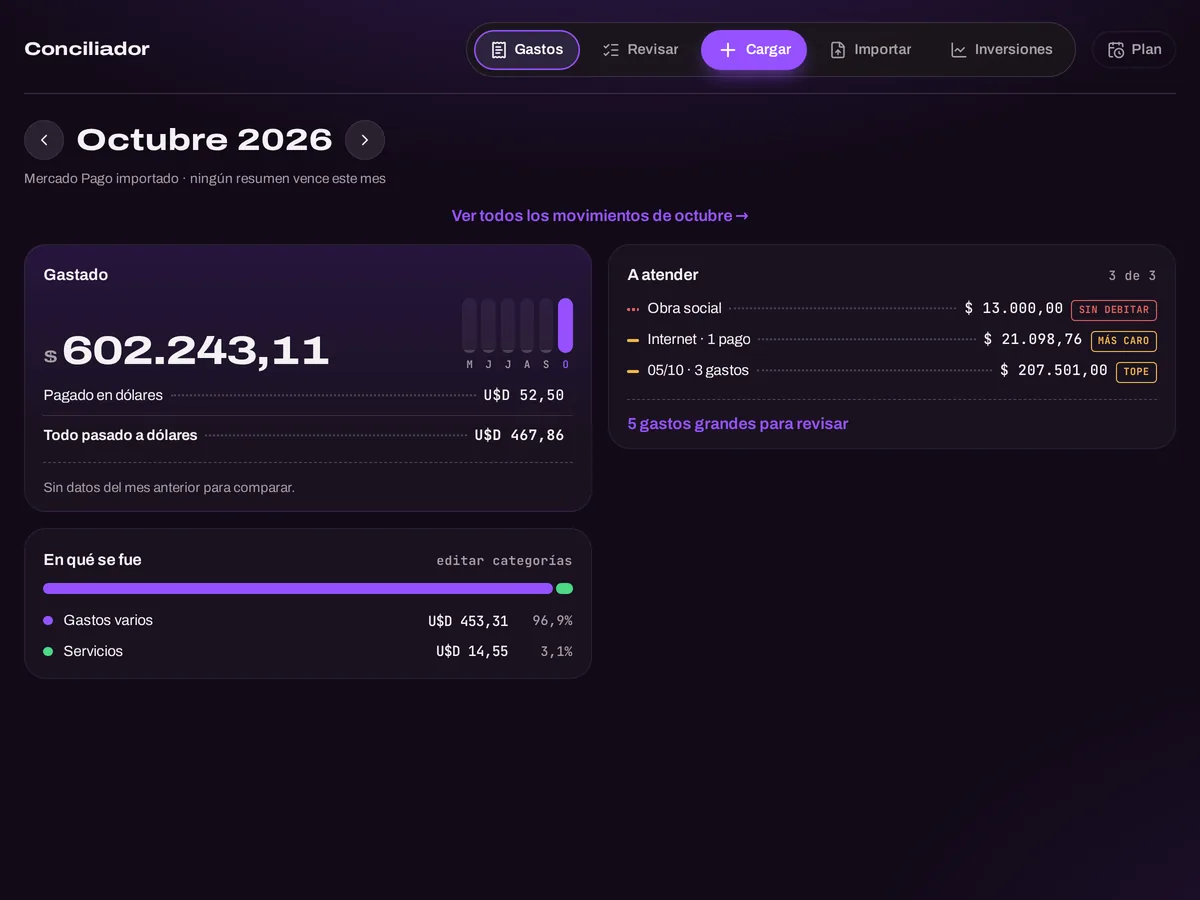
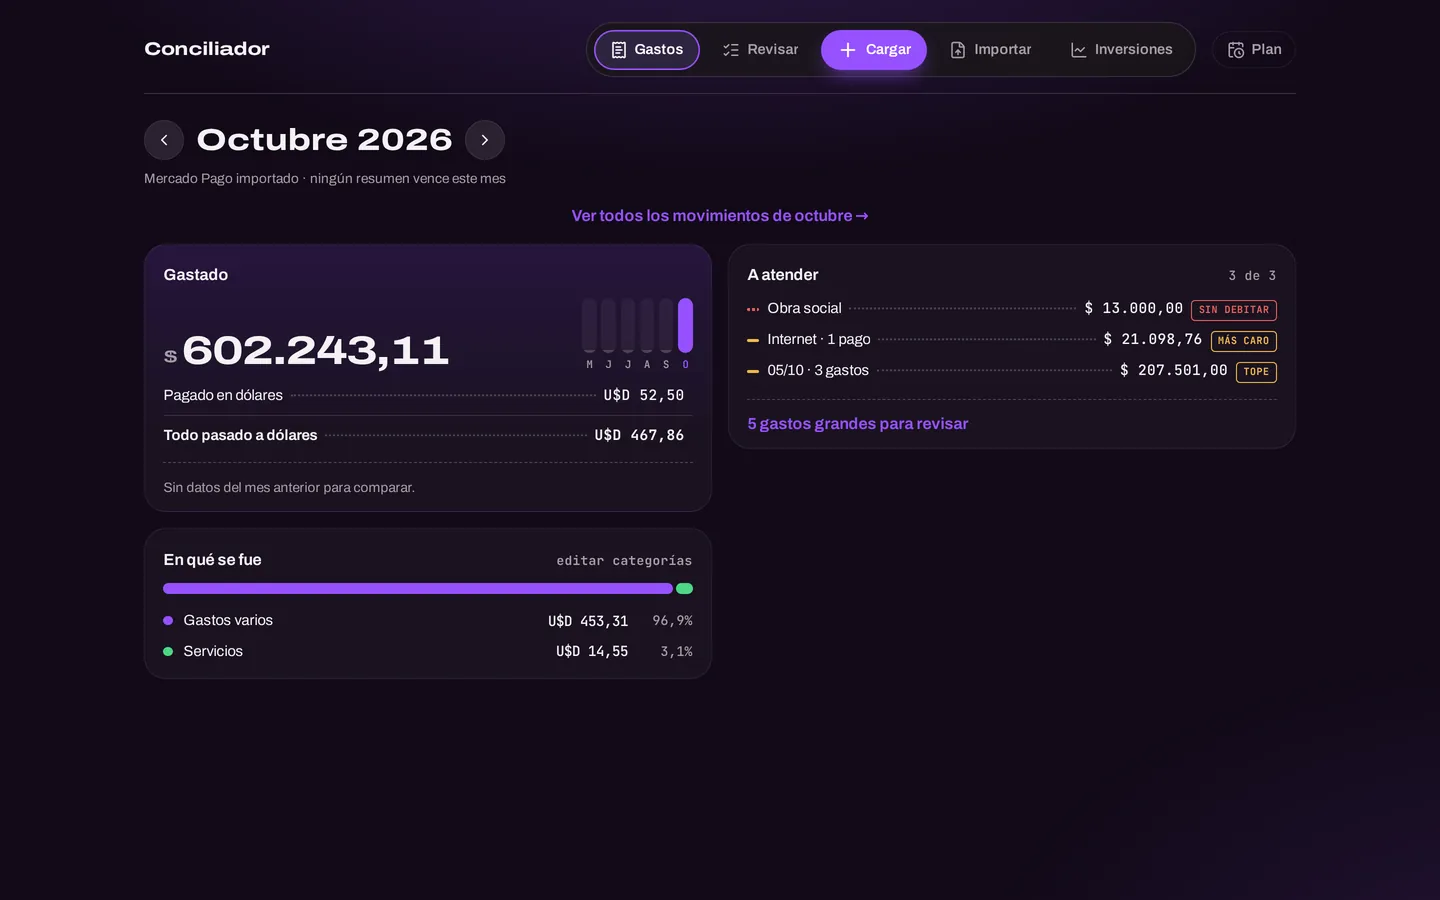
Capturas reales de Salón Ivana (8 pantallas) y Ubuntu Estudio (5) en Trabajos
El catálogo de velas pasa a llamarse Ubuntu Estudio. Cada proyecto toma el color de su propia marca:
dorado para Ivana y naranja para Ubuntu, sacados de sus capturas; Kioskardo pasa de ámbar a lavanda para
no quedar con tres colores cálidos seguidos. Las diapositivas pasan de 4:3 a 16:10, la proporción de las
capturas de compu, y la de Facturar (más alta) se corta bajo el botón de cobrar y se completa a los
costados con el fondo de la app. Se borran las pantallas ilustrativas que ya no usa nadie.

Claude-Session: https://claude.ai/code/session_017WqKTYk3RLyTthn5xwMGce

diff --git a/bocetos/boceto-v2.html b/bocetos/boceto-v2.html
@@ -23,9 +23,9 @@
   --lima:#D4EE5E;
   --crema:#E4DDCB;
   --verde:#4ADE80;
-  --rosa:#F472B6;
-  --kiosco:#FBBF24;
+  --dorado:#C9A84C;
   --lavanda:#A78BFA;
+  --naranja:#E8833A;
   --menta:#4CD886;
   --nota:#FFC857;
 
@@ -60,8 +60,8 @@ main{overflow-x:clip}
   transition:--amb-fondo 1.2s ease, --amb-brillo 1.2s ease}
 .ambiente[data-tono="negro"]  {--amb-fondo:#030405;--amb-brillo:rgba(212,238,94,.05)}
 .ambiente[data-tono="navy"]   {--amb-fondo:#060E1E;--amb-brillo:rgba(60,110,230,.16)}
-.ambiente[data-tono="rosa"]   {--amb-fondo:#0D0A1F;--amb-brillo:rgba(244,114,182,.17)}
-.ambiente[data-tono="ambar"]  {--amb-fondo:#0B0F1E;--amb-brillo:rgba(251,191,36,.13)}
+.ambiente[data-tono="dorado"] {--amb-fondo:#0D0D16;--amb-brillo:rgba(201,168,76,.15)}
+.ambiente[data-tono="naranja"]{--amb-fondo:#0E0B16;--amb-brillo:rgba(232,131,58,.15)}
 .ambiente[data-tono="lavanda"]{--amb-fondo:#090B24;--amb-brillo:rgba(167,139,250,.19)}
 .ambiente[data-tono="menta"]  {--amb-fondo:#05131A;--amb-brillo:rgba(76,216,134,.14)}
 .ambiente[data-tono="turquesa"]{--amb-fondo:#04111A;--amb-brillo:rgba(94,234,212,.15)}
@@ -164,7 +164,7 @@ main{overflow-x:clip}
 .galeria{display:grid;gap:14px;min-width:0}
 .carril{display:flex;gap:12px;overflow-x:auto;scroll-snap-type:x mandatory;scrollbar-width:none;border-radius:22px;overscroll-behavior-x:contain}
 .carril::-webkit-scrollbar{display:none}
-.slide{flex:0 0 86%;scroll-snap-align:start;margin:0;position:relative;border-radius:22px;overflow:hidden;aspect-ratio:4/3;max-width:100%;
+.slide{flex:0 0 86%;scroll-snap-align:start;margin:0;position:relative;border-radius:22px;overflow:hidden;aspect-ratio:16/10;max-width:100%;
   background:
     radial-gradient(80% 70% at 70% 20%, color-mix(in srgb, var(--tinte) 30%, transparent), transparent 70%),
     linear-gradient(160deg,#0D1628,#070C18)}
@@ -363,24 +363,6 @@ main{overflow-x:clip}
       <rect x="314" y="152" width="16" height="74" rx="3" opacity=".7"/>
     </g>
   </symbol>
-  <symbol id="mock-agenda" viewBox="0 0 400 300">
-    <rect x="34" y="34" width="332" height="222" rx="16" style="fill:#0B1322;stroke:rgba(255,255,255,.1)"/>
-    <rect x="52" y="52" width="90" height="10" rx="5" style="fill:#DDE6F2"/>
-    <rect x="290" y="48" width="58" height="20" rx="10" style="fill:var(--tinte)"/>
-    <g style="fill:#121F37">
-      <rect x="52" y="82" width="56" height="158" rx="8"/><rect x="112" y="82" width="56" height="158" rx="8"/><rect x="172" y="82" width="56" height="158" rx="8"/><rect x="232" y="82" width="56" height="158" rx="8"/><rect x="292" y="82" width="56" height="158" rx="8"/>
-    </g>
-    <g style="fill:var(--tinte)">
-      <rect x="56" y="92" width="48" height="34" rx="6" opacity=".85"/>
-      <rect x="56" y="150" width="48" height="24" rx="6" opacity=".45"/>
-      <rect x="116" y="112" width="48" height="44" rx="6" opacity=".6"/>
-      <rect x="176" y="92" width="48" height="22" rx="6" opacity=".45"/>
-      <rect x="176" y="130" width="48" height="50" rx="6"/>
-      <rect x="236" y="160" width="48" height="30" rx="6" opacity=".6"/>
-      <rect x="296" y="96" width="48" height="30" rx="6" opacity=".7"/>
-      <rect x="296" y="196" width="48" height="30" rx="6" opacity=".45"/>
-    </g>
-  </symbol>
   <symbol id="mock-celu" viewBox="0 0 400 300">
     <rect x="140" y="22" width="120" height="256" rx="24" style="fill:#0B1322;stroke:rgba(255,255,255,.16);stroke-width:2"/>
     <rect x="182" y="32" width="36" height="8" rx="4" style="fill:#1B2840"/>
@@ -398,15 +380,6 @@ main{overflow-x:clip}
     <g style="fill:#121F37"><rect x="52" y="94" width="296" height="28" rx="7"/><rect x="52" y="128" width="296" height="28" rx="7"/><rect x="52" y="162" width="296" height="28" rx="7"/><rect x="52" y="196" width="296" height="28" rx="7"/></g>
     <g style="fill:#3A4A68"><rect x="64" y="105" width="110" height="6" rx="3"/><rect x="64" y="139" width="90" height="6" rx="3"/><rect x="64" y="173" width="124" height="6" rx="3"/><rect x="64" y="207" width="100" height="6" rx="3"/></g>
     <g style="fill:var(--tinte)"><rect x="300" y="102" width="36" height="12" rx="6" opacity=".8"/><rect x="300" y="136" width="36" height="12" rx="6" opacity=".5"/><rect x="300" y="170" width="36" height="12" rx="6"/><rect x="300" y="204" width="36" height="12" rx="6" opacity=".35"/></g>
-  </symbol>
-  <symbol id="mock-catalogo" viewBox="0 0 400 300">
-    <rect x="34" y="34" width="332" height="222" rx="16" style="fill:#0B1322;stroke:rgba(255,255,255,.1)"/>
-    <rect x="52" y="52" width="110" height="10" rx="5" style="fill:#DDE6F2"/>
-    <g style="fill:#121F37"><rect x="52" y="76" width="56" height="18" rx="9"/><rect x="114" y="76" width="56" height="18" rx="9"/><rect x="176" y="76" width="56" height="18" rx="9"/></g>
-    <rect x="52" y="76" width="56" height="18" rx="9" style="fill:var(--tinte)"/>
-    <g style="fill:var(--tinte)"><rect x="52" y="108" width="92" height="74" rx="10" opacity=".7"/><rect x="154" y="108" width="92" height="74" rx="10" opacity=".45"/><rect x="256" y="108" width="92" height="74" rx="10" opacity=".85"/></g>
-    <g style="fill:#3A4A68"><rect x="52" y="192" width="70" height="7" rx="3.5"/><rect x="154" y="192" width="60" height="7" rx="3.5"/><rect x="256" y="192" width="74" height="7" rx="3.5"/></g>
-    <g style="fill:#121F37"><rect x="52" y="210" width="92" height="26" rx="13"/><rect x="154" y="210" width="92" height="26" rx="13"/><rect x="256" y="210" width="92" height="26" rx="13"/></g>
   </symbol>
 
 </svg>
@@ -550,16 +523,21 @@ main{overflow-x:clip}
       <div class="cabecera revela" data-ambiente="navy">
         <h2 id="t-trabajos">Ya está andando</h2>
         <p>Sistemas que se usan todos los días y uno propio que está en desarrollo. Deslizá las capturas para verlos por dentro.</p>
-        <span class="nota-boceto">Capturas ilustrativas, salvo las del Conciliador (son de su demo)</span>
+        <span class="nota-boceto">Capturas ilustrativas solo en Kioskardo</span>
       </div>
 
       <div class="proyectos">
-        <article class="proyecto revela" data-ambiente="rosa" style="--tinte:var(--rosa)">
+        <article class="proyecto revela" data-ambiente="dorado" style="--tinte:var(--dorado)">
           <div class="galeria">
             <div class="carril" tabindex="0" aria-label="Capturas de Salón Ivana">
-              <figure class="slide"><svg aria-hidden="true"><use href="#mock-panel"/></svg><figcaption>Caja y comisiones</figcaption></figure>
-              <figure class="slide"><svg aria-hidden="true"><use href="#mock-agenda"/></svg><figcaption>Turnos y señas</figcaption></figure>
-              <figure class="slide"><svg aria-hidden="true"><use href="#mock-celu"/></svg><figcaption>Vista en el celular</figcaption></figure>
+              <figure class="slide"><img class="foto" src="capturas/ivana/facturar.webp" alt="Pantalla de facturar: servicios por categoría, ticket con descuento y forma de pago" width="1440" height="900"><figcaption>Facturar</figcaption></figure>
+              <figure class="slide"><img class="foto" src="capturas/ivana/caja.webp" alt="Cierre de caja del día con ingresos, egresos y arqueo del efectivo" width="1440" height="900" loading="lazy"><figcaption>Caja del día</figcaption></figure>
+              <figure class="slide"><img class="foto" src="capturas/ivana/agenda.webp" alt="Agenda del día con una columna por empleada" width="1440" height="900" loading="lazy"><figcaption>Agenda</figcaption></figure>
+              <figure class="slide"><img class="foto" src="capturas/ivana/depilacion.webp" alt="Cobro de sesiones de depilación por cantidad de zonas, con señas" width="1440" height="900" loading="lazy"><figcaption>Depilación</figcaption></figure>
+              <figure class="slide"><img class="foto" src="capturas/ivana/historial.webp" alt="Historial de tickets con filtros por fecha y estado" width="1440" height="900" loading="lazy"><figcaption>Historial</figcaption></figure>
+              <figure class="slide"><img class="foto" src="capturas/ivana/ficha-clienta.webp" alt="Ficha de una clienta con su seña, próximo turno y tickets" width="1440" height="900" loading="lazy"><figcaption>Ficha de la clienta</figcaption></figure>
+              <figure class="slide"><img class="foto" src="capturas/ivana/sueldos.webp" alt="Sueldos de la semana con los trabajos y la comisión de cada uno" width="1440" height="900" loading="lazy"><figcaption>Sueldos</figcaption></figure>
+              <figure class="slide"><img class="foto" src="capturas/ivana/reportes.webp" alt="Reportes del período con la evolución de la caja y lo más vendido" width="1440" height="900" loading="lazy"><figcaption>Reportes</figcaption></figure>
             </div>
             <div class="galeria-control"></div>
           </div>
@@ -567,7 +545,7 @@ main{overflow-x:clip}
             <p class="rubro">Peluquería</p>
             <h3>Salón Ivana</h3>
             <p class="estado"><i></i>En uso todos los días</p>
-            <p class="proyecto-desc">Facturación con dos listas de precios, caja diaria con arqueo, turnos, señas, sueldos y comisiones de cada empleada, y el ticket impreso en la comandera.</p>
+            <p class="proyecto-desc">Facturación con dos listas de precios, caja diaria con arqueo, agenda por empleada, sesiones de depilación por zonas, fichas de clientas con sus señas, sueldos con comisiones y reportes. El ticket sale por la comandera.</p>
             <dl class="datos">
               <dt>Se usa en</dt><dd>Una tablet en el local</dd>
               <dt>Imprime</dt><dd>Tickets en la comandera</dd>
@@ -576,7 +554,7 @@ main{overflow-x:clip}
           </div>
         </article>
 
-        <article class="proyecto revela" data-ambiente="ambar" style="--tinte:var(--kiosco)">
+        <article class="proyecto revela" data-ambiente="lavanda" style="--tinte:var(--lavanda)">
           <div class="galeria">
             <div class="carril" tabindex="0" aria-label="Capturas de Kioskardo">
               <figure class="slide"><svg aria-hidden="true"><use href="#mock-celu"/></svg><figcaption>Venta con la cámara</figcaption></figure>
@@ -594,19 +572,22 @@ main{overflow-x:clip}
           </div>
         </article>
 
-        <article class="proyecto revela" data-ambiente="lavanda" style="--tinte:var(--lavanda)">
+        <article class="proyecto revela" data-ambiente="naranja" style="--tinte:var(--naranja)">
           <div class="galeria">
-            <div class="carril" tabindex="0" aria-label="Capturas del catálogo de velas">
-              <figure class="slide"><svg aria-hidden="true"><use href="#mock-catalogo"/></svg><figcaption>Catálogo por categoría</figcaption></figure>
-              <figure class="slide"><svg aria-hidden="true"><use href="#mock-celu"/></svg><figcaption>Consulta por WhatsApp</figcaption></figure>
+            <div class="carril" tabindex="0" aria-label="Capturas de Ubuntu Estudio">
+              <figure class="slide"><img class="foto" src="capturas/ubuntu/portada.webp" alt="Portada de Ubuntu Estudio: Recuerdos que permanecen, con una vela con moño" width="1440" height="900" loading="lazy"><figcaption>Portada</figcaption></figure>
+              <figure class="slide"><img class="foto celu" src="capturas/ubuntu/portada-celu.webp" alt="Portada de Ubuntu Estudio en el celular" width="520" height="1000" loading="lazy"><figcaption>En el celular</figcaption></figure>
+              <figure class="slide"><img class="foto" src="capturas/ubuntu/categorias.webp" alt="Categorías del catálogo: comunión, deco, souvenirs, velas y velas con sticker" width="1440" height="900" loading="lazy"><figcaption>Categorías</figcaption></figure>
+              <figure class="slide"><img class="foto" src="capturas/ubuntu/catalogo.webp" alt="Catálogo de productos con filtros y un botón para consultar cada uno por WhatsApp" width="1440" height="900" loading="lazy"><figcaption>Catálogo</figcaption></figure>
+              <figure class="slide"><img class="foto celu" src="capturas/ubuntu/por-que-celu.webp" alt="Sección Por qué Ubuntu en el celular" width="520" height="1000" loading="lazy"><figcaption>Por qué Ubuntu</figcaption></figure>
             </div>
             <div class="galeria-control"></div>
           </div>
           <div class="proyecto-texto">
             <p class="rubro">Velas artesanales</p>
-            <h3>Catálogo online</h3>
+            <h3>Ubuntu Estudio</h3>
             <p class="estado"><i></i>Online</p>
-            <p class="proyecto-desc">Catálogo por categoría con un botón para consultar cada producto por WhatsApp. Las fotos se cargan desde una carpeta compartida y la página se actualiza sola.</p>
+            <p class="proyecto-desc">Catálogo de velas, souvenirs y deco por categoría, con un botón para consultar cada producto por WhatsApp. Las fotos se cargan desde una carpeta compartida y la página se actualiza sola.</p>
             <dl class="datos">
               <dt>Pedidos</dt><dd>Por WhatsApp</dd>
               <dt>Fotos</dt><dd>Desde una carpeta compartida</dd>
@@ -617,7 +598,7 @@ main{overflow-x:clip}
         <article class="proyecto revela" data-ambiente="menta" style="--tinte:var(--menta)">
           <div class="galeria">
             <div class="carril" tabindex="0" aria-label="Capturas del Conciliador">
-              <figure class="slide"><img class="foto" src="capturas/conciliador/gastos-compu.webp" alt="Gastos del mes en la computadora: lo gastado, lo que hay que atender y en qué se fue" width="1200" height="900"><figcaption>Gastos del mes</figcaption></figure>
+              <figure class="slide"><img class="foto" src="capturas/conciliador/gastos-compu.webp" alt="Gastos del mes en la computadora: lo gastado, lo que hay que atender y en qué se fue" width="1440" height="900" loading="lazy"><figcaption>Gastos del mes</figcaption></figure>
               <figure class="slide"><img class="foto celu" src="capturas/conciliador/revisar.webp" alt="Revisar un gasto pendiente en el celular" width="520" height="1000" loading="lazy"><figcaption>Revisar un gasto</figcaption></figure>
               <figure class="slide"><img class="foto celu" src="capturas/conciliador/movimientos.webp" alt="Movimientos del mes con buscador y filtros" width="520" height="1000" loading="lazy"><figcaption>Movimientos</figcaption></figure>
               <figure class="slide"><img class="foto celu" src="capturas/conciliador/inversiones.webp" alt="Cartera de inversiones con ganancia por posición" width="520" height="1000" loading="lazy"><figcaption>Inversiones</figcaption></figure>
